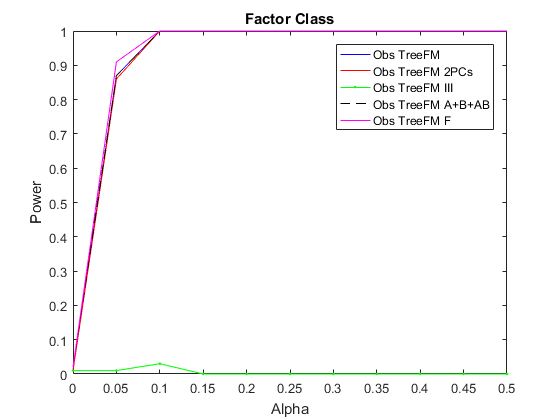
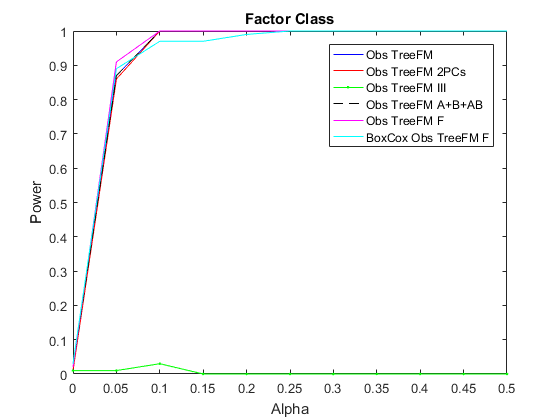
html results correct

diff --git a/html/CreatePlot.html b/html/CreatePlot.html
@@ -6,7 +6,7 @@
    <!--
 This HTML was auto-generated from MATLAB code.
 To make changes, update the MATLAB code and republish this document.
-      --><title>Plot of figures</title><meta name="generator" content="MATLAB 9.1"><link rel="schema.DC" href="http://purl.org/dc/elements/1.1/"><meta name="DC.date" content="2023-06-07"><meta name="DC.source" content="CreatePlot.m"><style type="text/css">
+      --><title>Plot of figures: exp^3 distribution</title><meta name="generator" content="MATLAB 9.1"><link rel="schema.DC" href="http://purl.org/dc/elements/1.1/"><meta name="DC.date" content="2023-07-04"><meta name="DC.source" content="CreatePlot.m"><style type="text/css">
 html,body,div,span,applet,object,iframe,h1,h2,h3,h4,h5,h6,p,blockquote,pre,a,abbr,acronym,address,big,cite,code,del,dfn,em,font,img,ins,kbd,q,s,samp,small,strike,strong,sub,sup,tt,var,b,u,i,center,dl,dt,dd,ol,ul,li,fieldset,form,label,legend,table,caption,tbody,tfoot,thead,tr,th,td{margin:0;padding:0;border:0;outline:0;font-size:100%;vertical-align:baseline;background:transparent}body{line-height:1}ol,ul{list-style:none}blockquote,q{quotes:none}blockquote:before,blockquote:after,q:before,q:after{content:'';content:none}:focus{outine:0}ins{text-decoration:none}del{text-decoration:line-through}table{border-collapse:collapse;border-spacing:0}
 
 html { min-height:100%; margin-bottom:1px; }
@@ -66,99 +66,99 @@ table td { padding:7px 5px; text-align:left; vertical-align:top; border:1px soli
 
 
 
-  </style></head><body><div class="content"><h1>Plot of figures</h1><!--introduction--><p>coded by: Jose Camacho Paez (<a href="mailto:josecamacho@ugr.es">josecamacho@ugr.es</a>) last modification: 05/Jun/2023</p><p>Copyright (C) 2023  University of Granada, Granada Copyright (C) 2023  Jose Camacho Paez</p><p>This program is free software: you can redistribute it and/or modify it under the terms of the GNU General Public License as published by the Free Software Foundation, either version 3 of the License, or (at your option) any later version.</p><p>This program is distributed in the hope that it will be useful, but WITHOUT ANY WARRANTY; without even the implied warranty of MERCHANTABILITY or FITNESS FOR A PARTICULAR PURPOSE.  See the GNU General Public License for more details.</p><p>You should have received a copy of the GNU General Public License along with this program.  If not, see <a href="http://www.gnu.org/licenses/">http://www.gnu.org/licenses/</a>.</p><!--/introduction--><h2>Contents</h2><div><ul><li><a href="#1">TN.xlsx</a></li><li><a href="#2">LB.xlsx</a></li><li><a href="#3">TN_balanced</a></li></ul></div><h2 id="1">TN.xlsx</h2><pre class="codeinput">load <span class="string">random_e1</span> <span class="string">e</span> <span class="string">alpha</span>
+  </style></head><body><div class="content"><h1>Plot of figures: exp^3 distribution</h1><!--introduction--><p>coded by: Jose Camacho Paez (<a href="mailto:josecamacho@ugr.es">josecamacho@ugr.es</a>) last modification: 05/Jul/2023</p><p>Copyright (C) 2023  University of Granada, Granada Copyright (C) 2023  Jose Camacho Paez</p><p>This program is free software: you can redistribute it and/or modify it under the terms of the GNU General Public License as published by the Free Software Foundation, either version 3 of the License, or (at your option) any later version.</p><p>This program is distributed in the hope that it will be useful, but WITHOUT ANY WARRANTY; without even the implied warranty of MERCHANTABILITY or FITNESS FOR A PARTICULAR PURPOSE.  See the GNU General Public License for more details.</p><p>You should have received a copy of the GNU General Public License along with this program.  If not, see <a href="http://www.gnu.org/licenses/">http://www.gnu.org/licenses/</a>.</p><!--/introduction--><h2>Contents</h2><div><ul><li><a href="#1">TN.xlsx</a></li><li><a href="#2">LB.xlsx</a></li><li><a href="#3">TN_balanced</a></li></ul></div><h2 id="1">TN.xlsx</h2><pre class="codeinput">load <span class="string">random_e1</span> <span class="string">e</span> <span class="string">alpha</span>
 
 <span class="comment">% Compare Interaction</span>
 
 i=1;
-figure, plot(alpha,e(1,:,i),<span class="string">'b'</span>); hold <span class="string">on</span>, plot(alpha,e(2,:,i),<span class="string">'r'</span>); plot(alpha,e(3,:,i),<span class="string">'g.-'</span>); plot(alpha,e(4,:,i),<span class="string">'k--'</span>); plot(alpha,e(5,:,i),<span class="string">'m'</span>);
+figure, plot(alpha,e(1,:,i),<span class="string">'b'</span>); hold <span class="string">on</span>, plot(alpha,e(2,:,i),<span class="string">'r'</span>); plot(alpha,e(3,:,i),<span class="string">'g.-'</span>); plot(alpha,e(4,:,i),<span class="string">'k--'</span>); plot(alpha,e(5,:,i),<span class="string">'m'</span>); plot(alpha,e(6,:,i),<span class="string">'c'</span>);
 xlabel(<span class="string">'Alpha'</span>),ylabel(<span class="string">'Power'</span>),title(<span class="string">'Interaction Time x Class'</span>)
-legend(<span class="string">'Obs TreeFM'</span>,<span class="string">'Obs TreeFM 2PCs'</span>,<span class="string">'Obs TreeFM III'</span>,<span class="string">'Obs TreeFM A+B+AB'</span>,<span class="string">'Obs TreeFM F'</span>)
+ legend(<span class="string">'Obs TreeFM'</span>,<span class="string">'Obs TreeFM 2PCs'</span>,<span class="string">'Obs TreeFM III'</span>,<span class="string">'Obs TreeFM A+B+AB'</span>,<span class="string">'Obs TreeFM F'</span>,<span class="string">'BoxCox Obs TreeFM F'</span>)
 
 <span class="comment">% Compare time</span>
 
 i=2;
-figure, plot(alpha,e(1,:,i),<span class="string">'b'</span>); hold <span class="string">on</span>, plot(alpha,e(2,:,i),<span class="string">'r'</span>); plot(alpha,e(3,:,i),<span class="string">'g.-'</span>); plot(alpha,e(4,:,i),<span class="string">'k--'</span>); plot(alpha,e(5,:,i),<span class="string">'m'</span>);
+figure, plot(alpha,e(1,:,i),<span class="string">'b'</span>); hold <span class="string">on</span>, plot(alpha,e(2,:,i),<span class="string">'r'</span>); plot(alpha,e(3,:,i),<span class="string">'g.-'</span>); plot(alpha,e(4,:,i),<span class="string">'k--'</span>); plot(alpha,e(5,:,i),<span class="string">'m'</span>); plot(alpha,e(6,:,i),<span class="string">'c'</span>);
 xlabel(<span class="string">'Alpha'</span>),ylabel(<span class="string">'Power'</span>),title(<span class="string">'Factor Time'</span>)
-legend(<span class="string">'Obs TreeFM'</span>,<span class="string">'Obs TreeFM 2PCs'</span>,<span class="string">'Obs TreeFM III'</span>,<span class="string">'Obs TreeFM A+B+AB'</span>,<span class="string">'Obs TreeFM F'</span>)
+ legend(<span class="string">'Obs TreeFM'</span>,<span class="string">'Obs TreeFM 2PCs'</span>,<span class="string">'Obs TreeFM III'</span>,<span class="string">'Obs TreeFM A+B+AB'</span>,<span class="string">'Obs TreeFM F'</span>,<span class="string">'BoxCox Obs TreeFM F'</span>)
 
 <span class="comment">% Compare class</span>
 
 i=3;
-figure, plot(alpha,e(1,:,i),<span class="string">'b'</span>); hold <span class="string">on</span>, plot(alpha,e(2,:,i),<span class="string">'r'</span>); plot(alpha,e(3,:,i),<span class="string">'g.-'</span>); plot(alpha,e(4,:,i),<span class="string">'k--'</span>); plot(alpha,e(5,:,i),<span class="string">'m'</span>);
+figure, plot(alpha,e(1,:,i),<span class="string">'b'</span>); hold <span class="string">on</span>, plot(alpha,e(2,:,i),<span class="string">'r'</span>); plot(alpha,e(3,:,i),<span class="string">'g.-'</span>); plot(alpha,e(4,:,i),<span class="string">'k--'</span>); plot(alpha,e(5,:,i),<span class="string">'m'</span>); plot(alpha,e(6,:,i),<span class="string">'c'</span>);
 xlabel(<span class="string">'Alpha'</span>),ylabel(<span class="string">'Power'</span>),title(<span class="string">'Factor Class'</span>)
-legend(<span class="string">'Obs TreeFM'</span>,<span class="string">'Obs TreeFM 2PCs'</span>,<span class="string">'Obs TreeFM III'</span>,<span class="string">'Obs TreeFM A+B+AB'</span>,<span class="string">'Obs TreeFM F'</span>)
+ legend(<span class="string">'Obs TreeFM'</span>,<span class="string">'Obs TreeFM 2PCs'</span>,<span class="string">'Obs TreeFM III'</span>,<span class="string">'Obs TreeFM A+B+AB'</span>,<span class="string">'Obs TreeFM F'</span>,<span class="string">'BoxCox Obs TreeFM F'</span>)
 
 <span class="comment">% Compare individual</span>
 
 i=4;
-figure, plot(alpha,e(1,:,i),<span class="string">'b'</span>); hold <span class="string">on</span>, plot(alpha,e(2,:,i),<span class="string">'r'</span>); plot(alpha,e(3,:,i),<span class="string">'g.-'</span>); plot(alpha,e(4,:,i),<span class="string">'k--'</span>); plot(alpha,e(5,:,i),<span class="string">'m'</span>);
+figure, plot(alpha,e(1,:,i),<span class="string">'b'</span>); hold <span class="string">on</span>, plot(alpha,e(2,:,i),<span class="string">'r'</span>); plot(alpha,e(3,:,i),<span class="string">'g.-'</span>); plot(alpha,e(4,:,i),<span class="string">'k--'</span>); plot(alpha,e(5,:,i),<span class="string">'m'</span>); plot(alpha,e(6,:,i),<span class="string">'c'</span>);
 xlabel(<span class="string">'Alpha'</span>),ylabel(<span class="string">'Power'</span>),title(<span class="string">'Factor Individual'</span>)
-legend(<span class="string">'Obs TreeFM'</span>,<span class="string">'Obs TreeFM 2PCs'</span>,<span class="string">'Obs TreeFM III'</span>,<span class="string">'Obs TreeFM A+B+AB'</span>,<span class="string">'Obs TreeFM F'</span>)
+ legend(<span class="string">'Obs TreeFM'</span>,<span class="string">'Obs TreeFM 2PCs'</span>,<span class="string">'Obs TreeFM III'</span>,<span class="string">'Obs TreeFM A+B+AB'</span>,<span class="string">'Obs TreeFM F'</span>,<span class="string">'BoxCox Obs TreeFM F'</span>)
 </pre><img vspace="5" hspace="5" src="CreatePlot_01.png" alt=""> <img vspace="5" hspace="5" src="CreatePlot_02.png" alt=""> <img vspace="5" hspace="5" src="CreatePlot_03.png" alt=""> <img vspace="5" hspace="5" src="CreatePlot_04.png" alt=""> <h2 id="2">LB.xlsx</h2><pre class="codeinput">load <span class="string">random_e2</span> <span class="string">e</span> <span class="string">alpha</span>
 
 <span class="comment">% Compare Interaction</span>
 
 i=1;
-figure, plot(alpha,e(1,:,i),<span class="string">'b'</span>); hold <span class="string">on</span>, plot(alpha,e(2,:,i),<span class="string">'r'</span>); plot(alpha,e(3,:,i),<span class="string">'g.-'</span>); plot(alpha,e(4,:,i),<span class="string">'k--'</span>); plot(alpha,e(5,:,i),<span class="string">'m'</span>);
+figure, plot(alpha,e(1,:,i),<span class="string">'b'</span>); hold <span class="string">on</span>, plot(alpha,e(2,:,i),<span class="string">'r'</span>); plot(alpha,e(3,:,i),<span class="string">'g.-'</span>); plot(alpha,e(4,:,i),<span class="string">'k--'</span>); plot(alpha,e(5,:,i),<span class="string">'m'</span>); plot(alpha,e(6,:,i),<span class="string">'c'</span>);
 xlabel(<span class="string">'Alpha'</span>),ylabel(<span class="string">'Power'</span>),title(<span class="string">'Interaction Time x Class'</span>)
-legend(<span class="string">'Obs TreeFM'</span>,<span class="string">'Obs TreeFM 2PCs'</span>,<span class="string">'Obs TreeFM III'</span>,<span class="string">'Obs TreeFM A+B+AB'</span>,<span class="string">'Obs TreeFM F'</span>)
+ legend(<span class="string">'Obs TreeFM'</span>,<span class="string">'Obs TreeFM 2PCs'</span>,<span class="string">'Obs TreeFM III'</span>,<span class="string">'Obs TreeFM A+B+AB'</span>,<span class="string">'Obs TreeFM F'</span>,<span class="string">'BoxCox Obs TreeFM F'</span>)
 
 <span class="comment">% Compare time</span>
 
 i=2;
-figure, plot(alpha,e(1,:,i),<span class="string">'b'</span>); hold <span class="string">on</span>, plot(alpha,e(2,:,i),<span class="string">'r'</span>); plot(alpha,e(3,:,i),<span class="string">'g.-'</span>); plot(alpha,e(4,:,i),<span class="string">'k--'</span>); plot(alpha,e(5,:,i),<span class="string">'m'</span>);
+figure, plot(alpha,e(1,:,i),<span class="string">'b'</span>); hold <span class="string">on</span>, plot(alpha,e(2,:,i),<span class="string">'r'</span>); plot(alpha,e(3,:,i),<span class="string">'g.-'</span>); plot(alpha,e(4,:,i),<span class="string">'k--'</span>); plot(alpha,e(5,:,i),<span class="string">'m'</span>); plot(alpha,e(6,:,i),<span class="string">'c'</span>);
 xlabel(<span class="string">'Alpha'</span>),ylabel(<span class="string">'Power'</span>),title(<span class="string">'Factor Time'</span>)
-legend(<span class="string">'Obs TreeFM'</span>,<span class="string">'Obs TreeFM 2PCs'</span>,<span class="string">'Obs TreeFM III'</span>,<span class="string">'Obs TreeFM A+B+AB'</span>,<span class="string">'Obs TreeFM F'</span>)
+ legend(<span class="string">'Obs TreeFM'</span>,<span class="string">'Obs TreeFM 2PCs'</span>,<span class="string">'Obs TreeFM III'</span>,<span class="string">'Obs TreeFM A+B+AB'</span>,<span class="string">'Obs TreeFM F'</span>,<span class="string">'BoxCox Obs TreeFM F'</span>)
 
 <span class="comment">% Compare class</span>
 
 i=3;
-figure, plot(alpha,e(1,:,i),<span class="string">'b'</span>); hold <span class="string">on</span>, plot(alpha,e(2,:,i),<span class="string">'r'</span>); plot(alpha,e(3,:,i),<span class="string">'g.-'</span>); plot(alpha,e(4,:,i),<span class="string">'k--'</span>); plot(alpha,e(5,:,i),<span class="string">'m'</span>);
+figure, plot(alpha,e(1,:,i),<span class="string">'b'</span>); hold <span class="string">on</span>, plot(alpha,e(2,:,i),<span class="string">'r'</span>); plot(alpha,e(3,:,i),<span class="string">'g.-'</span>); plot(alpha,e(4,:,i),<span class="string">'k--'</span>); plot(alpha,e(5,:,i),<span class="string">'m'</span>); plot(alpha,e(6,:,i),<span class="string">'c'</span>);
 xlabel(<span class="string">'Alpha'</span>),ylabel(<span class="string">'Power'</span>),title(<span class="string">'Factor Class'</span>)
-legend(<span class="string">'Obs TreeFM'</span>,<span class="string">'Obs TreeFM 2PCs'</span>,<span class="string">'Obs TreeFM III'</span>,<span class="string">'Obs TreeFM A+B+AB'</span>,<span class="string">'Obs TreeFM F'</span>)
+ legend(<span class="string">'Obs TreeFM'</span>,<span class="string">'Obs TreeFM 2PCs'</span>,<span class="string">'Obs TreeFM III'</span>,<span class="string">'Obs TreeFM A+B+AB'</span>,<span class="string">'Obs TreeFM F'</span>,<span class="string">'BoxCox Obs TreeFM F'</span>)
 
 <span class="comment">% Compare individual</span>
 
 i=4;
-figure, plot(alpha,e(1,:,i),<span class="string">'b'</span>); hold <span class="string">on</span>, plot(alpha,e(2,:,i),<span class="string">'r'</span>); plot(alpha,e(3,:,i),<span class="string">'g.-'</span>); plot(alpha,e(4,:,i),<span class="string">'k--'</span>); plot(alpha,e(5,:,i),<span class="string">'m'</span>);
+figure, plot(alpha,e(1,:,i),<span class="string">'b'</span>); hold <span class="string">on</span>, plot(alpha,e(2,:,i),<span class="string">'r'</span>); plot(alpha,e(3,:,i),<span class="string">'g.-'</span>); plot(alpha,e(4,:,i),<span class="string">'k--'</span>); plot(alpha,e(5,:,i),<span class="string">'m'</span>); plot(alpha,e(6,:,i),<span class="string">'c'</span>);
 xlabel(<span class="string">'Alpha'</span>),ylabel(<span class="string">'Power'</span>),title(<span class="string">'Factor Individual'</span>)
-legend(<span class="string">'Obs TreeFM'</span>,<span class="string">'Obs TreeFM 2PCs'</span>,<span class="string">'Obs TreeFM III'</span>,<span class="string">'Obs TreeFM A+B+AB'</span>,<span class="string">'Obs TreeFM F'</span>)
+ legend(<span class="string">'Obs TreeFM'</span>,<span class="string">'Obs TreeFM 2PCs'</span>,<span class="string">'Obs TreeFM III'</span>,<span class="string">'Obs TreeFM A+B+AB'</span>,<span class="string">'Obs TreeFM F'</span>,<span class="string">'BoxCox Obs TreeFM F'</span>)
 </pre><img vspace="5" hspace="5" src="CreatePlot_05.png" alt=""> <img vspace="5" hspace="5" src="CreatePlot_06.png" alt=""> <img vspace="5" hspace="5" src="CreatePlot_07.png" alt=""> <img vspace="5" hspace="5" src="CreatePlot_08.png" alt=""> <h2 id="3">TN_balanced</h2><pre class="codeinput">load <span class="string">random_e3</span> <span class="string">e</span> <span class="string">alpha</span>
 
 <span class="comment">% Compare Interaction</span>
 
 i=1;
-figure, plot(alpha,e(1,:,i),<span class="string">'b'</span>); hold <span class="string">on</span>, plot(alpha,e(2,:,i),<span class="string">'r'</span>); plot(alpha,e(3,:,i),<span class="string">'g.-'</span>); plot(alpha,e(4,:,i),<span class="string">'k--'</span>); plot(alpha,e(5,:,i),<span class="string">'m'</span>);
+figure, plot(alpha,e(1,:,i),<span class="string">'b'</span>); hold <span class="string">on</span>, plot(alpha,e(2,:,i),<span class="string">'r'</span>); plot(alpha,e(3,:,i),<span class="string">'g.-'</span>); plot(alpha,e(4,:,i),<span class="string">'k--'</span>); plot(alpha,e(5,:,i),<span class="string">'m'</span>); plot(alpha,e(6,:,i),<span class="string">'c'</span>);
 xlabel(<span class="string">'Alpha'</span>),ylabel(<span class="string">'Power'</span>),title(<span class="string">'Interaction Time x Class'</span>)
-legend(<span class="string">'Obs TreeFM'</span>,<span class="string">'Obs TreeFM 2PCs'</span>,<span class="string">'Obs TreeFM III'</span>,<span class="string">'Obs TreeFM A+B+AB'</span>,<span class="string">'Obs TreeFM F'</span>)
+ legend(<span class="string">'Obs TreeFM'</span>,<span class="string">'Obs TreeFM 2PCs'</span>,<span class="string">'Obs TreeFM III'</span>,<span class="string">'Obs TreeFM A+B+AB'</span>,<span class="string">'Obs TreeFM F'</span>,<span class="string">'BoxCox Obs TreeFM F'</span>)
 
 <span class="comment">% Compare time</span>
 
 i=2;
-figure, plot(alpha,e(1,:,i),<span class="string">'b'</span>); hold <span class="string">on</span>, plot(alpha,e(2,:,i),<span class="string">'r'</span>); plot(alpha,e(3,:,i),<span class="string">'g.-'</span>); plot(alpha,e(4,:,i),<span class="string">'k--'</span>); plot(alpha,e(5,:,i),<span class="string">'m'</span>);
+figure, plot(alpha,e(1,:,i),<span class="string">'b'</span>); hold <span class="string">on</span>, plot(alpha,e(2,:,i),<span class="string">'r'</span>); plot(alpha,e(3,:,i),<span class="string">'g.-'</span>); plot(alpha,e(4,:,i),<span class="string">'k--'</span>); plot(alpha,e(5,:,i),<span class="string">'m'</span>); plot(alpha,e(6,:,i),<span class="string">'c'</span>);
 xlabel(<span class="string">'Alpha'</span>),ylabel(<span class="string">'Power'</span>),title(<span class="string">'Factor Time'</span>)
-legend(<span class="string">'Obs TreeFM'</span>,<span class="string">'Obs TreeFM 2PCs'</span>,<span class="string">'Obs TreeFM III'</span>,<span class="string">'Obs TreeFM A+B+AB'</span>,<span class="string">'Obs TreeFM F'</span>)
+ legend(<span class="string">'Obs TreeFM'</span>,<span class="string">'Obs TreeFM 2PCs'</span>,<span class="string">'Obs TreeFM III'</span>,<span class="string">'Obs TreeFM A+B+AB'</span>,<span class="string">'Obs TreeFM F'</span>,<span class="string">'BoxCox Obs TreeFM F'</span>)
 
 <span class="comment">% Compare class</span>
 
 i=3;
-figure, plot(alpha,e(1,:,i),<span class="string">'b'</span>); hold <span class="string">on</span>, plot(alpha,e(2,:,i),<span class="string">'r'</span>); plot(alpha,e(3,:,i),<span class="string">'g.-'</span>); plot(alpha,e(4,:,i),<span class="string">'k--'</span>); plot(alpha,e(5,:,i),<span class="string">'m'</span>);
+figure, plot(alpha,e(1,:,i),<span class="string">'b'</span>); hold <span class="string">on</span>, plot(alpha,e(2,:,i),<span class="string">'r'</span>); plot(alpha,e(3,:,i),<span class="string">'g.-'</span>); plot(alpha,e(4,:,i),<span class="string">'k--'</span>); plot(alpha,e(5,:,i),<span class="string">'m'</span>); plot(alpha,e(6,:,i),<span class="string">'c'</span>);
 xlabel(<span class="string">'Alpha'</span>),ylabel(<span class="string">'Power'</span>),title(<span class="string">'Factor Class'</span>)
-legend(<span class="string">'Obs TreeFM'</span>,<span class="string">'Obs TreeFM 2PCs'</span>,<span class="string">'Obs TreeFM III'</span>,<span class="string">'Obs TreeFM A+B+AB'</span>,<span class="string">'Obs TreeFM F'</span>)
+ legend(<span class="string">'Obs TreeFM'</span>,<span class="string">'Obs TreeFM 2PCs'</span>,<span class="string">'Obs TreeFM III'</span>,<span class="string">'Obs TreeFM A+B+AB'</span>,<span class="string">'Obs TreeFM F'</span>,<span class="string">'BoxCox Obs TreeFM F'</span>)
 
 <span class="comment">% Compare individual</span>
 
 i=4;
-figure, plot(alpha,e(1,:,i),<span class="string">'b'</span>); hold <span class="string">on</span>, plot(alpha,e(2,:,i),<span class="string">'r'</span>); plot(alpha,e(3,:,i),<span class="string">'g.-'</span>); plot(alpha,e(4,:,i),<span class="string">'k--'</span>); plot(alpha,e(5,:,i),<span class="string">'m'</span>);
+figure, plot(alpha,e(1,:,i),<span class="string">'b'</span>); hold <span class="string">on</span>, plot(alpha,e(2,:,i),<span class="string">'r'</span>); plot(alpha,e(3,:,i),<span class="string">'g.-'</span>); plot(alpha,e(4,:,i),<span class="string">'k--'</span>); plot(alpha,e(5,:,i),<span class="string">'m'</span>); plot(alpha,e(6,:,i),<span class="string">'c'</span>);
 xlabel(<span class="string">'Alpha'</span>),ylabel(<span class="string">'Power'</span>),title(<span class="string">'Factor Individual'</span>)
-legend(<span class="string">'Obs TreeFM'</span>,<span class="string">'Obs TreeFM 2PCs'</span>,<span class="string">'Obs TreeFM III'</span>,<span class="string">'Obs TreeFM A+B+AB'</span>,<span class="string">'Obs TreeFM F'</span>)
+ legend(<span class="string">'Obs TreeFM'</span>,<span class="string">'Obs TreeFM 2PCs'</span>,<span class="string">'Obs TreeFM III'</span>,<span class="string">'Obs TreeFM A+B+AB'</span>,<span class="string">'Obs TreeFM F'</span>,<span class="string">'BoxCox Obs TreeFM F'</span>)
 </pre><img vspace="5" hspace="5" src="CreatePlot_09.png" alt=""> <img vspace="5" hspace="5" src="CreatePlot_10.png" alt=""> <img vspace="5" hspace="5" src="CreatePlot_11.png" alt=""> <img vspace="5" hspace="5" src="CreatePlot_12.png" alt=""> <p class="footer"><br><a href="http://www.mathworks.com/products/matlab/">Published with MATLAB&reg; R2016b</a><br></p></div><!--
 ##### SOURCE BEGIN #####
-%% Plot of figures 
+%% Plot of figures: exp^3 distribution 
 %
 % coded by: Jose Camacho Paez (josecamacho@ugr.es)
-% last modification: 05/Jun/2023
+% last modification: 05/Jul/2023
 %
 % Copyright (C) 2023  University of Granada, Granada
 % Copyright (C) 2023  Jose Camacho Paez
@@ -183,30 +183,30 @@ load random_e1 e alpha
 % Compare Interaction
 
 i=1;
-figure, plot(alpha,e(1,:,i),'b'); hold on, plot(alpha,e(2,:,i),'r'); plot(alpha,e(3,:,i),'g.-'); plot(alpha,e(4,:,i),'kREPLACE_WITH_DASH_DASH'); plot(alpha,e(5,:,i),'m'); 
+figure, plot(alpha,e(1,:,i),'b'); hold on, plot(alpha,e(2,:,i),'r'); plot(alpha,e(3,:,i),'g.-'); plot(alpha,e(4,:,i),'kREPLACE_WITH_DASH_DASH'); plot(alpha,e(5,:,i),'m'); plot(alpha,e(6,:,i),'c');  
 xlabel('Alpha'),ylabel('Power'),title('Interaction Time x Class')
-legend('Obs TreeFM','Obs TreeFM 2PCs','Obs TreeFM III','Obs TreeFM A+B+AB','Obs TreeFM F')
+ legend('Obs TreeFM','Obs TreeFM 2PCs','Obs TreeFM III','Obs TreeFM A+B+AB','Obs TreeFM F','BoxCox Obs TreeFM F')
 
 % Compare time
 
 i=2;
-figure, plot(alpha,e(1,:,i),'b'); hold on, plot(alpha,e(2,:,i),'r'); plot(alpha,e(3,:,i),'g.-'); plot(alpha,e(4,:,i),'kREPLACE_WITH_DASH_DASH'); plot(alpha,e(5,:,i),'m');  
+figure, plot(alpha,e(1,:,i),'b'); hold on, plot(alpha,e(2,:,i),'r'); plot(alpha,e(3,:,i),'g.-'); plot(alpha,e(4,:,i),'kREPLACE_WITH_DASH_DASH'); plot(alpha,e(5,:,i),'m'); plot(alpha,e(6,:,i),'c');   
 xlabel('Alpha'),ylabel('Power'),title('Factor Time')
-legend('Obs TreeFM','Obs TreeFM 2PCs','Obs TreeFM III','Obs TreeFM A+B+AB','Obs TreeFM F')
+ legend('Obs TreeFM','Obs TreeFM 2PCs','Obs TreeFM III','Obs TreeFM A+B+AB','Obs TreeFM F','BoxCox Obs TreeFM F')
 
 % Compare class
 
 i=3;
-figure, plot(alpha,e(1,:,i),'b'); hold on, plot(alpha,e(2,:,i),'r'); plot(alpha,e(3,:,i),'g.-'); plot(alpha,e(4,:,i),'kREPLACE_WITH_DASH_DASH'); plot(alpha,e(5,:,i),'m');  
+figure, plot(alpha,e(1,:,i),'b'); hold on, plot(alpha,e(2,:,i),'r'); plot(alpha,e(3,:,i),'g.-'); plot(alpha,e(4,:,i),'kREPLACE_WITH_DASH_DASH'); plot(alpha,e(5,:,i),'m'); plot(alpha,e(6,:,i),'c');   
 xlabel('Alpha'),ylabel('Power'),title('Factor Class')
-legend('Obs TreeFM','Obs TreeFM 2PCs','Obs TreeFM III','Obs TreeFM A+B+AB','Obs TreeFM F')
+ legend('Obs TreeFM','Obs TreeFM 2PCs','Obs TreeFM III','Obs TreeFM A+B+AB','Obs TreeFM F','BoxCox Obs TreeFM F')
 
 % Compare individual
 
 i=4;
-figure, plot(alpha,e(1,:,i),'b'); hold on, plot(alpha,e(2,:,i),'r'); plot(alpha,e(3,:,i),'g.-'); plot(alpha,e(4,:,i),'kREPLACE_WITH_DASH_DASH'); plot(alpha,e(5,:,i),'m'); 
+figure, plot(alpha,e(1,:,i),'b'); hold on, plot(alpha,e(2,:,i),'r'); plot(alpha,e(3,:,i),'g.-'); plot(alpha,e(4,:,i),'kREPLACE_WITH_DASH_DASH'); plot(alpha,e(5,:,i),'m'); plot(alpha,e(6,:,i),'c');  
 xlabel('Alpha'),ylabel('Power'),title('Factor Individual')
-legend('Obs TreeFM','Obs TreeFM 2PCs','Obs TreeFM III','Obs TreeFM A+B+AB','Obs TreeFM F')
+ legend('Obs TreeFM','Obs TreeFM 2PCs','Obs TreeFM III','Obs TreeFM A+B+AB','Obs TreeFM F','BoxCox Obs TreeFM F')
 
 %% LB.xlsx
 
@@ -215,30 +215,30 @@ load random_e2 e alpha
 % Compare Interaction
 
 i=1;
-figure, plot(alpha,e(1,:,i),'b'); hold on, plot(alpha,e(2,:,i),'r'); plot(alpha,e(3,:,i),'g.-'); plot(alpha,e(4,:,i),'kREPLACE_WITH_DASH_DASH'); plot(alpha,e(5,:,i),'m'); 
+figure, plot(alpha,e(1,:,i),'b'); hold on, plot(alpha,e(2,:,i),'r'); plot(alpha,e(3,:,i),'g.-'); plot(alpha,e(4,:,i),'kREPLACE_WITH_DASH_DASH'); plot(alpha,e(5,:,i),'m'); plot(alpha,e(6,:,i),'c');  
 xlabel('Alpha'),ylabel('Power'),title('Interaction Time x Class')
-legend('Obs TreeFM','Obs TreeFM 2PCs','Obs TreeFM III','Obs TreeFM A+B+AB','Obs TreeFM F')
+ legend('Obs TreeFM','Obs TreeFM 2PCs','Obs TreeFM III','Obs TreeFM A+B+AB','Obs TreeFM F','BoxCox Obs TreeFM F')
 
 % Compare time
 
 i=2;
-figure, plot(alpha,e(1,:,i),'b'); hold on, plot(alpha,e(2,:,i),'r'); plot(alpha,e(3,:,i),'g.-'); plot(alpha,e(4,:,i),'kREPLACE_WITH_DASH_DASH'); plot(alpha,e(5,:,i),'m');  
+figure, plot(alpha,e(1,:,i),'b'); hold on, plot(alpha,e(2,:,i),'r'); plot(alpha,e(3,:,i),'g.-'); plot(alpha,e(4,:,i),'kREPLACE_WITH_DASH_DASH'); plot(alpha,e(5,:,i),'m'); plot(alpha,e(6,:,i),'c');   
 xlabel('Alpha'),ylabel('Power'),title('Factor Time')
-legend('Obs TreeFM','Obs TreeFM 2PCs','Obs TreeFM III','Obs TreeFM A+B+AB','Obs TreeFM F')
+ legend('Obs TreeFM','Obs TreeFM 2PCs','Obs TreeFM III','Obs TreeFM A+B+AB','Obs TreeFM F','BoxCox Obs TreeFM F')
 
 % Compare class
 
 i=3;
-figure, plot(alpha,e(1,:,i),'b'); hold on, plot(alpha,e(2,:,i),'r'); plot(alpha,e(3,:,i),'g.-'); plot(alpha,e(4,:,i),'kREPLACE_WITH_DASH_DASH'); plot(alpha,e(5,:,i),'m');  
+figure, plot(alpha,e(1,:,i),'b'); hold on, plot(alpha,e(2,:,i),'r'); plot(alpha,e(3,:,i),'g.-'); plot(alpha,e(4,:,i),'kREPLACE_WITH_DASH_DASH'); plot(alpha,e(5,:,i),'m'); plot(alpha,e(6,:,i),'c');   
 xlabel('Alpha'),ylabel('Power'),title('Factor Class')
-legend('Obs TreeFM','Obs TreeFM 2PCs','Obs TreeFM III','Obs TreeFM A+B+AB','Obs TreeFM F')
+ legend('Obs TreeFM','Obs TreeFM 2PCs','Obs TreeFM III','Obs TreeFM A+B+AB','Obs TreeFM F','BoxCox Obs TreeFM F')
 
 % Compare individual
 
 i=4;
-figure, plot(alpha,e(1,:,i),'b'); hold on, plot(alpha,e(2,:,i),'r'); plot(alpha,e(3,:,i),'g.-'); plot(alpha,e(4,:,i),'kREPLACE_WITH_DASH_DASH'); plot(alpha,e(5,:,i),'m'); 
+figure, plot(alpha,e(1,:,i),'b'); hold on, plot(alpha,e(2,:,i),'r'); plot(alpha,e(3,:,i),'g.-'); plot(alpha,e(4,:,i),'kREPLACE_WITH_DASH_DASH'); plot(alpha,e(5,:,i),'m'); plot(alpha,e(6,:,i),'c');  
 xlabel('Alpha'),ylabel('Power'),title('Factor Individual')
-legend('Obs TreeFM','Obs TreeFM 2PCs','Obs TreeFM III','Obs TreeFM A+B+AB','Obs TreeFM F')
+ legend('Obs TreeFM','Obs TreeFM 2PCs','Obs TreeFM III','Obs TreeFM A+B+AB','Obs TreeFM F','BoxCox Obs TreeFM F')
 
 %% TN_balanced
 
@@ -247,29 +247,29 @@ load random_e3 e alpha
 % Compare Interaction
 
 i=1;
-figure, plot(alpha,e(1,:,i),'b'); hold on, plot(alpha,e(2,:,i),'r'); plot(alpha,e(3,:,i),'g.-'); plot(alpha,e(4,:,i),'kREPLACE_WITH_DASH_DASH'); plot(alpha,e(5,:,i),'m'); 
+figure, plot(alpha,e(1,:,i),'b'); hold on, plot(alpha,e(2,:,i),'r'); plot(alpha,e(3,:,i),'g.-'); plot(alpha,e(4,:,i),'kREPLACE_WITH_DASH_DASH'); plot(alpha,e(5,:,i),'m'); plot(alpha,e(6,:,i),'c');  
 xlabel('Alpha'),ylabel('Power'),title('Interaction Time x Class')
-legend('Obs TreeFM','Obs TreeFM 2PCs','Obs TreeFM III','Obs TreeFM A+B+AB','Obs TreeFM F')
+ legend('Obs TreeFM','Obs TreeFM 2PCs','Obs TreeFM III','Obs TreeFM A+B+AB','Obs TreeFM F','BoxCox Obs TreeFM F')
 
 % Compare time
 
 i=2;
-figure, plot(alpha,e(1,:,i),'b'); hold on, plot(alpha,e(2,:,i),'r'); plot(alpha,e(3,:,i),'g.-'); plot(alpha,e(4,:,i),'kREPLACE_WITH_DASH_DASH'); plot(alpha,e(5,:,i),'m');  
+figure, plot(alpha,e(1,:,i),'b'); hold on, plot(alpha,e(2,:,i),'r'); plot(alpha,e(3,:,i),'g.-'); plot(alpha,e(4,:,i),'kREPLACE_WITH_DASH_DASH'); plot(alpha,e(5,:,i),'m'); plot(alpha,e(6,:,i),'c');   
 xlabel('Alpha'),ylabel('Power'),title('Factor Time')
-legend('Obs TreeFM','Obs TreeFM 2PCs','Obs TreeFM III','Obs TreeFM A+B+AB','Obs TreeFM F')
+ legend('Obs TreeFM','Obs TreeFM 2PCs','Obs TreeFM III','Obs TreeFM A+B+AB','Obs TreeFM F','BoxCox Obs TreeFM F')
 
 % Compare class
 
 i=3;
-figure, plot(alpha,e(1,:,i),'b'); hold on, plot(alpha,e(2,:,i),'r'); plot(alpha,e(3,:,i),'g.-'); plot(alpha,e(4,:,i),'kREPLACE_WITH_DASH_DASH'); plot(alpha,e(5,:,i),'m');  
+figure, plot(alpha,e(1,:,i),'b'); hold on, plot(alpha,e(2,:,i),'r'); plot(alpha,e(3,:,i),'g.-'); plot(alpha,e(4,:,i),'kREPLACE_WITH_DASH_DASH'); plot(alpha,e(5,:,i),'m'); plot(alpha,e(6,:,i),'c');   
 xlabel('Alpha'),ylabel('Power'),title('Factor Class')
-legend('Obs TreeFM','Obs TreeFM 2PCs','Obs TreeFM III','Obs TreeFM A+B+AB','Obs TreeFM F')
+ legend('Obs TreeFM','Obs TreeFM 2PCs','Obs TreeFM III','Obs TreeFM A+B+AB','Obs TreeFM F','BoxCox Obs TreeFM F')
 
 % Compare individual
 
 i=4;
-figure, plot(alpha,e(1,:,i),'b'); hold on, plot(alpha,e(2,:,i),'r'); plot(alpha,e(3,:,i),'g.-'); plot(alpha,e(4,:,i),'kREPLACE_WITH_DASH_DASH'); plot(alpha,e(5,:,i),'m'); 
+figure, plot(alpha,e(1,:,i),'b'); hold on, plot(alpha,e(2,:,i),'r'); plot(alpha,e(3,:,i),'g.-'); plot(alpha,e(4,:,i),'kREPLACE_WITH_DASH_DASH'); plot(alpha,e(5,:,i),'m'); plot(alpha,e(6,:,i),'c');  
 xlabel('Alpha'),ylabel('Power'),title('Factor Individual')
-legend('Obs TreeFM','Obs TreeFM 2PCs','Obs TreeFM III','Obs TreeFM A+B+AB','Obs TreeFM F')
+ legend('Obs TreeFM','Obs TreeFM 2PCs','Obs TreeFM III','Obs TreeFM A+B+AB','Obs TreeFM F','BoxCox Obs TreeFM F')
 ##### SOURCE END #####
 --></body></html>

diff --git a/CreatePlot.m b/CreatePlot.m
@@ -1,7 +1,7 @@
 %% Plot of figures: exp^3 distribution 
 %
 % coded by: Jose Camacho Paez (josecamacho@ugr.es)
-% last modification: 05/Jun/2023
+% last modification: 05/Jul/2023
 %
 % Copyright (C) 2023  University of Granada, Granada
 % Copyright (C) 2023  Jose Camacho Paez
@@ -26,30 +26,30 @@ load random_e1 e alpha
 % Compare Interaction
 
 i=1;
-figure, plot(alpha,e(1,:,i),'b'); hold on, plot(alpha,e(2,:,i),'r'); plot(alpha,e(3,:,i),'g.-'); plot(alpha,e(4,:,i),'k--'); plot(alpha,e(5,:,i),'m'); 
+figure, plot(alpha,e(1,:,i),'b'); hold on, plot(alpha,e(2,:,i),'r'); plot(alpha,e(3,:,i),'g.-'); plot(alpha,e(4,:,i),'k--'); plot(alpha,e(5,:,i),'m'); plot(alpha,e(6,:,i),'c');  
 xlabel('Alpha'),ylabel('Power'),title('Interaction Time x Class')
-legend('Obs TreeFM','Obs TreeFM 2PCs','Obs TreeFM III','Obs TreeFM A+B+AB','Obs TreeFM F')
+ legend('Obs TreeFM','Obs TreeFM 2PCs','Obs TreeFM III','Obs TreeFM A+B+AB','Obs TreeFM F','BoxCox Obs TreeFM F')
 
 % Compare time
 
 i=2;
-figure, plot(alpha,e(1,:,i),'b'); hold on, plot(alpha,e(2,:,i),'r'); plot(alpha,e(3,:,i),'g.-'); plot(alpha,e(4,:,i),'k--'); plot(alpha,e(5,:,i),'m');  
+figure, plot(alpha,e(1,:,i),'b'); hold on, plot(alpha,e(2,:,i),'r'); plot(alpha,e(3,:,i),'g.-'); plot(alpha,e(4,:,i),'k--'); plot(alpha,e(5,:,i),'m'); plot(alpha,e(6,:,i),'c');   
 xlabel('Alpha'),ylabel('Power'),title('Factor Time')
-legend('Obs TreeFM','Obs TreeFM 2PCs','Obs TreeFM III','Obs TreeFM A+B+AB','Obs TreeFM F')
+ legend('Obs TreeFM','Obs TreeFM 2PCs','Obs TreeFM III','Obs TreeFM A+B+AB','Obs TreeFM F','BoxCox Obs TreeFM F')
 
 % Compare class
 
 i=3;
-figure, plot(alpha,e(1,:,i),'b'); hold on, plot(alpha,e(2,:,i),'r'); plot(alpha,e(3,:,i),'g.-'); plot(alpha,e(4,:,i),'k--'); plot(alpha,e(5,:,i),'m');  
+figure, plot(alpha,e(1,:,i),'b'); hold on, plot(alpha,e(2,:,i),'r'); plot(alpha,e(3,:,i),'g.-'); plot(alpha,e(4,:,i),'k--'); plot(alpha,e(5,:,i),'m'); plot(alpha,e(6,:,i),'c');   
 xlabel('Alpha'),ylabel('Power'),title('Factor Class')
-legend('Obs TreeFM','Obs TreeFM 2PCs','Obs TreeFM III','Obs TreeFM A+B+AB','Obs TreeFM F')
+ legend('Obs TreeFM','Obs TreeFM 2PCs','Obs TreeFM III','Obs TreeFM A+B+AB','Obs TreeFM F','BoxCox Obs TreeFM F')
 
 % Compare individual
 
 i=4;
-figure, plot(alpha,e(1,:,i),'b'); hold on, plot(alpha,e(2,:,i),'r'); plot(alpha,e(3,:,i),'g.-'); plot(alpha,e(4,:,i),'k--'); plot(alpha,e(5,:,i),'m'); 
+figure, plot(alpha,e(1,:,i),'b'); hold on, plot(alpha,e(2,:,i),'r'); plot(alpha,e(3,:,i),'g.-'); plot(alpha,e(4,:,i),'k--'); plot(alpha,e(5,:,i),'m'); plot(alpha,e(6,:,i),'c');  
 xlabel('Alpha'),ylabel('Power'),title('Factor Individual')
-legend('Obs TreeFM','Obs TreeFM 2PCs','Obs TreeFM III','Obs TreeFM A+B+AB','Obs TreeFM F')
+ legend('Obs TreeFM','Obs TreeFM 2PCs','Obs TreeFM III','Obs TreeFM A+B+AB','Obs TreeFM F','BoxCox Obs TreeFM F')
 
 %% LB.xlsx
 
@@ -58,30 +58,30 @@ load random_e2 e alpha
 % Compare Interaction
 
 i=1;
-figure, plot(alpha,e(1,:,i),'b'); hold on, plot(alpha,e(2,:,i),'r'); plot(alpha,e(3,:,i),'g.-'); plot(alpha,e(4,:,i),'k--'); plot(alpha,e(5,:,i),'m'); 
+figure, plot(alpha,e(1,:,i),'b'); hold on, plot(alpha,e(2,:,i),'r'); plot(alpha,e(3,:,i),'g.-'); plot(alpha,e(4,:,i),'k--'); plot(alpha,e(5,:,i),'m'); plot(alpha,e(6,:,i),'c');  
 xlabel('Alpha'),ylabel('Power'),title('Interaction Time x Class')
-legend('Obs TreeFM','Obs TreeFM 2PCs','Obs TreeFM III','Obs TreeFM A+B+AB','Obs TreeFM F')
+ legend('Obs TreeFM','Obs TreeFM 2PCs','Obs TreeFM III','Obs TreeFM A+B+AB','Obs TreeFM F','BoxCox Obs TreeFM F')
 
 % Compare time
 
 i=2;
-figure, plot(alpha,e(1,:,i),'b'); hold on, plot(alpha,e(2,:,i),'r'); plot(alpha,e(3,:,i),'g.-'); plot(alpha,e(4,:,i),'k--'); plot(alpha,e(5,:,i),'m');  
+figure, plot(alpha,e(1,:,i),'b'); hold on, plot(alpha,e(2,:,i),'r'); plot(alpha,e(3,:,i),'g.-'); plot(alpha,e(4,:,i),'k--'); plot(alpha,e(5,:,i),'m'); plot(alpha,e(6,:,i),'c');   
 xlabel('Alpha'),ylabel('Power'),title('Factor Time')
-legend('Obs TreeFM','Obs TreeFM 2PCs','Obs TreeFM III','Obs TreeFM A+B+AB','Obs TreeFM F')
+ legend('Obs TreeFM','Obs TreeFM 2PCs','Obs TreeFM III','Obs TreeFM A+B+AB','Obs TreeFM F','BoxCox Obs TreeFM F')
 
 % Compare class
 
 i=3;
-figure, plot(alpha,e(1,:,i),'b'); hold on, plot(alpha,e(2,:,i),'r'); plot(alpha,e(3,:,i),'g.-'); plot(alpha,e(4,:,i),'k--'); plot(alpha,e(5,:,i),'m');  
+figure, plot(alpha,e(1,:,i),'b'); hold on, plot(alpha,e(2,:,i),'r'); plot(alpha,e(3,:,i),'g.-'); plot(alpha,e(4,:,i),'k--'); plot(alpha,e(5,:,i),'m'); plot(alpha,e(6,:,i),'c');   
 xlabel('Alpha'),ylabel('Power'),title('Factor Class')
-legend('Obs TreeFM','Obs TreeFM 2PCs','Obs TreeFM III','Obs TreeFM A+B+AB','Obs TreeFM F')
+ legend('Obs TreeFM','Obs TreeFM 2PCs','Obs TreeFM III','Obs TreeFM A+B+AB','Obs TreeFM F','BoxCox Obs TreeFM F')
 
 % Compare individual
 
 i=4;
-figure, plot(alpha,e(1,:,i),'b'); hold on, plot(alpha,e(2,:,i),'r'); plot(alpha,e(3,:,i),'g.-'); plot(alpha,e(4,:,i),'k--'); plot(alpha,e(5,:,i),'m'); 
+figure, plot(alpha,e(1,:,i),'b'); hold on, plot(alpha,e(2,:,i),'r'); plot(alpha,e(3,:,i),'g.-'); plot(alpha,e(4,:,i),'k--'); plot(alpha,e(5,:,i),'m'); plot(alpha,e(6,:,i),'c');  
 xlabel('Alpha'),ylabel('Power'),title('Factor Individual')
-legend('Obs TreeFM','Obs TreeFM 2PCs','Obs TreeFM III','Obs TreeFM A+B+AB','Obs TreeFM F')
+ legend('Obs TreeFM','Obs TreeFM 2PCs','Obs TreeFM III','Obs TreeFM A+B+AB','Obs TreeFM F','BoxCox Obs TreeFM F')
 
 %% TN_balanced
 
@@ -90,27 +90,27 @@ load random_e3 e alpha
 % Compare Interaction
 
 i=1;
-figure, plot(alpha,e(1,:,i),'b'); hold on, plot(alpha,e(2,:,i),'r'); plot(alpha,e(3,:,i),'g.-'); plot(alpha,e(4,:,i),'k--'); plot(alpha,e(5,:,i),'m'); 
+figure, plot(alpha,e(1,:,i),'b'); hold on, plot(alpha,e(2,:,i),'r'); plot(alpha,e(3,:,i),'g.-'); plot(alpha,e(4,:,i),'k--'); plot(alpha,e(5,:,i),'m'); plot(alpha,e(6,:,i),'c');  
 xlabel('Alpha'),ylabel('Power'),title('Interaction Time x Class')
-legend('Obs TreeFM','Obs TreeFM 2PCs','Obs TreeFM III','Obs TreeFM A+B+AB','Obs TreeFM F')
+ legend('Obs TreeFM','Obs TreeFM 2PCs','Obs TreeFM III','Obs TreeFM A+B+AB','Obs TreeFM F','BoxCox Obs TreeFM F')
 
 % Compare time
 
 i=2;
-figure, plot(alpha,e(1,:,i),'b'); hold on, plot(alpha,e(2,:,i),'r'); plot(alpha,e(3,:,i),'g.-'); plot(alpha,e(4,:,i),'k--'); plot(alpha,e(5,:,i),'m');  
+figure, plot(alpha,e(1,:,i),'b'); hold on, plot(alpha,e(2,:,i),'r'); plot(alpha,e(3,:,i),'g.-'); plot(alpha,e(4,:,i),'k--'); plot(alpha,e(5,:,i),'m'); plot(alpha,e(6,:,i),'c');   
 xlabel('Alpha'),ylabel('Power'),title('Factor Time')
-legend('Obs TreeFM','Obs TreeFM 2PCs','Obs TreeFM III','Obs TreeFM A+B+AB','Obs TreeFM F')
+ legend('Obs TreeFM','Obs TreeFM 2PCs','Obs TreeFM III','Obs TreeFM A+B+AB','Obs TreeFM F','BoxCox Obs TreeFM F')
 
 % Compare class
 
 i=3;
-figure, plot(alpha,e(1,:,i),'b'); hold on, plot(alpha,e(2,:,i),'r'); plot(alpha,e(3,:,i),'g.-'); plot(alpha,e(4,:,i),'k--'); plot(alpha,e(5,:,i),'m');  
+figure, plot(alpha,e(1,:,i),'b'); hold on, plot(alpha,e(2,:,i),'r'); plot(alpha,e(3,:,i),'g.-'); plot(alpha,e(4,:,i),'k--'); plot(alpha,e(5,:,i),'m'); plot(alpha,e(6,:,i),'c');   
 xlabel('Alpha'),ylabel('Power'),title('Factor Class')
-legend('Obs TreeFM','Obs TreeFM 2PCs','Obs TreeFM III','Obs TreeFM A+B+AB','Obs TreeFM F')
+ legend('Obs TreeFM','Obs TreeFM 2PCs','Obs TreeFM III','Obs TreeFM A+B+AB','Obs TreeFM F','BoxCox Obs TreeFM F')
 
 % Compare individual
 
 i=4;
-figure, plot(alpha,e(1,:,i),'b'); hold on, plot(alpha,e(2,:,i),'r'); plot(alpha,e(3,:,i),'g.-'); plot(alpha,e(4,:,i),'k--'); plot(alpha,e(5,:,i),'m'); 
+figure, plot(alpha,e(1,:,i),'b'); hold on, plot(alpha,e(2,:,i),'r'); plot(alpha,e(3,:,i),'g.-'); plot(alpha,e(4,:,i),'k--'); plot(alpha,e(5,:,i),'m'); plot(alpha,e(6,:,i),'c');  
 xlabel('Alpha'),ylabel('Power'),title('Factor Individual')
-legend('Obs TreeFM','Obs TreeFM 2PCs','Obs TreeFM III','Obs TreeFM A+B+AB','Obs TreeFM F')
+ legend('Obs TreeFM','Obs TreeFM 2PCs','Obs TreeFM III','Obs TreeFM A+B+AB','Obs TreeFM F','BoxCox Obs TreeFM F')

diff --git a/PowerCurves_UncRaw.m b/PowerCurves_UncRaw.m
@@ -10,7 +10,7 @@
 %   - AB: Interaction A & B
 %
 % coded by: Jose Camacho Paez (josecamacho@ugr.es)
-% last modification: 05/Jun/2023
+% last modification: 05/Jul/2023
 %
 % Copyright (C) 2023  University of Granada, Granada
 % Copyright (C) 2023  Jose Camacho Paez
